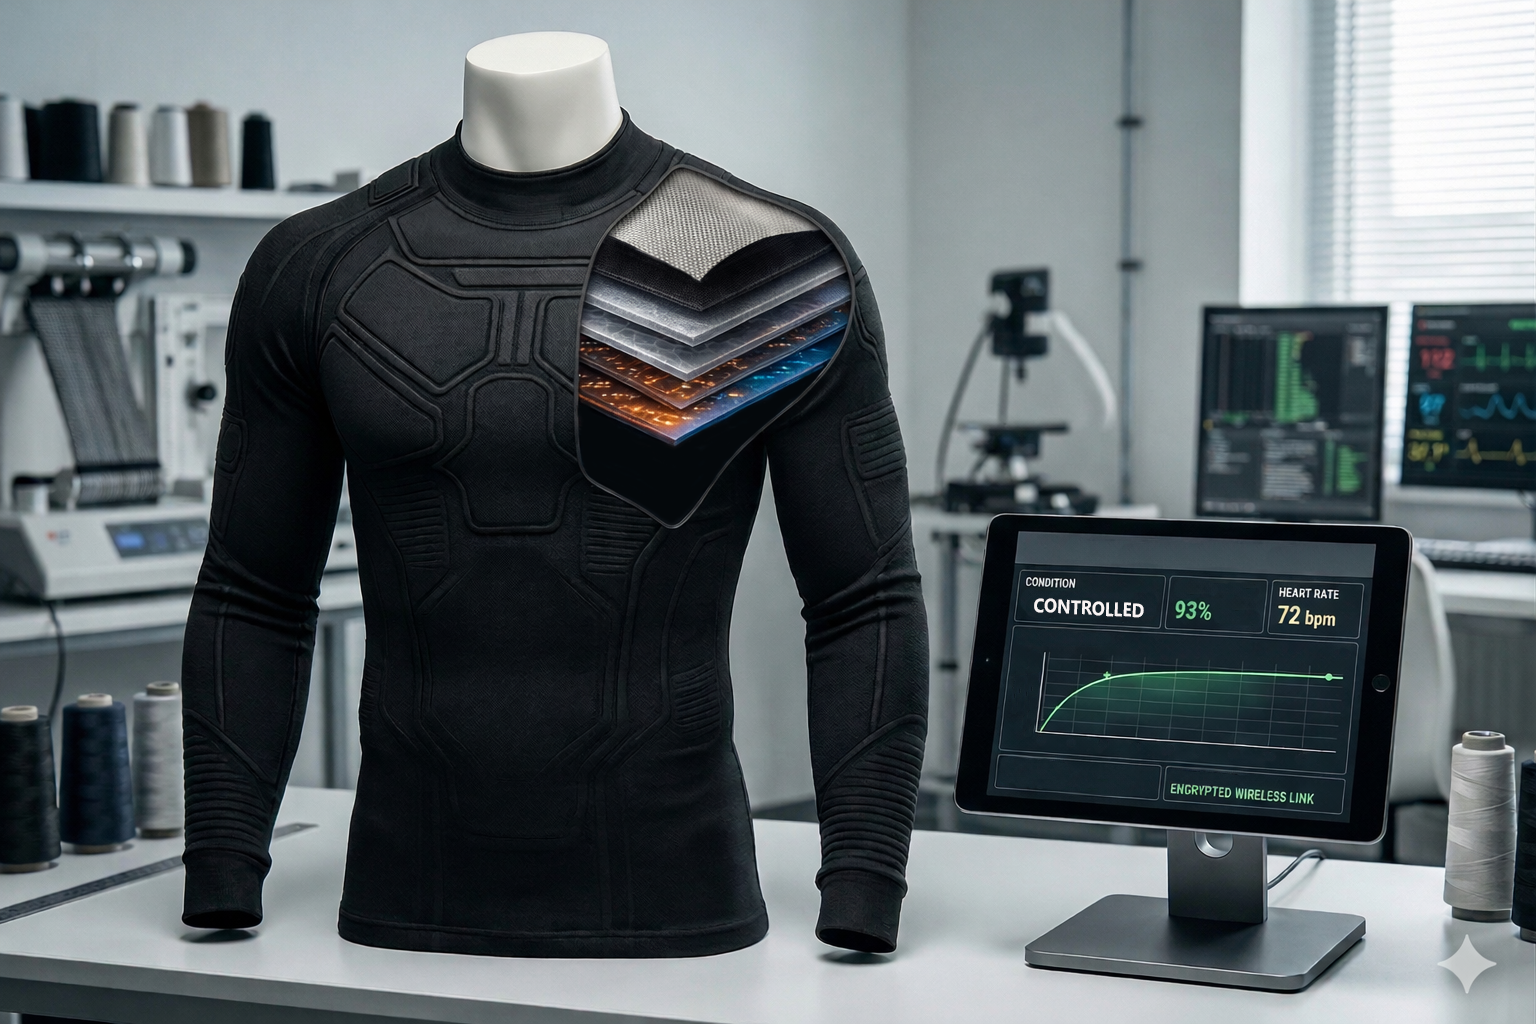
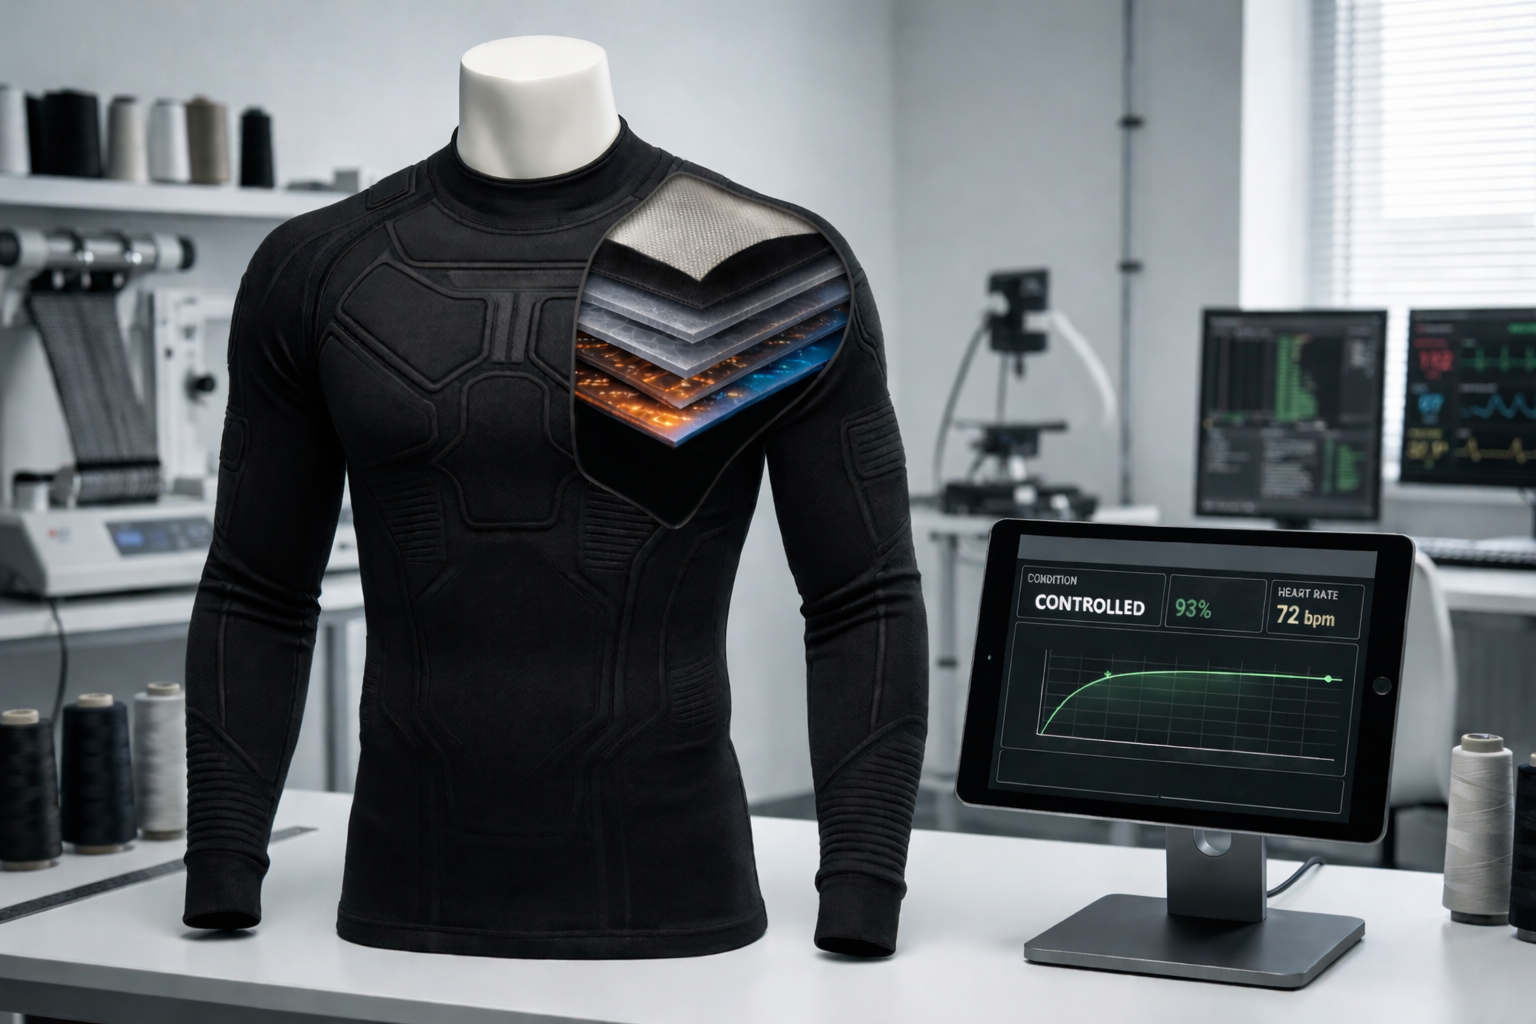
update text content and layout

diff --git a/app/components/MissionSection.jsx b/app/components/MissionSection.jsx
@@ -6,21 +6,23 @@ const sections = [
   {
     image: '/images/shirt.png',
     alt: 'The suit',
-    text: `A form of support designed to stay close to the body.`,
+    text: `It stays close to the body.
+Not as a layer.
+As a second skin.`,
   },
   {
     image: '/images/6 layers textile.png',
     alt: 'The layers',
     text: `Its complexity is not visible.
 By design.
-Silently present. Close to the body.`,
+Silently present.
+Close to the body.`,
   },
   {
     image: '/images/environment.png',
     alt: 'The environment',
-    text: `Discreet in presence. Serious in purpose.
-Not distracting. Not asking to be managed.
-Built to support physiological stability when it matters most.`,
+    text: `Built for uncontrolled conditions.
+Supporting physiological stability when it matters most.`,
   },
 ];
 
@@ -28,9 +30,12 @@ const SHOW_CTA = false;
 
 const typewriterText = [
   "Built for situations where the body is asked to carry more than usual.",
-  "",
-  "From recovery and thermal stress to demanding operational environments, the focus remains the same:",
-  "quiet support, close to the body, when stability matters most.",
+  "From recovery to thermal stress,",
+  "to demanding operational environments,",
+  "the focus remains the same:",
+  "quiet support.",
+  "Close to the body.",
+  "When stability matters most.",
 ];
 
 const fullText = typewriterText.join('\n');
@@ -75,7 +80,7 @@ function TypewriterText() {
 
 export default function MissionSection() {
   return (
-    <section className="py-20 bg-black/50 text-white px-6">
+<section className="py-20 text-white px-6" style={{background: 'rgba(0,0,0,0.5)'}}>
       <div className="space-y-24 max-w-6xl mx-auto">
         {sections.map((section, index) => (
           <div
@@ -84,16 +89,18 @@ export default function MissionSection() {
               index % 2 !== 0 ? 'md:flex-row-reverse' : ''
             } items-center gap-10`}
           >
-            <div className="w-full md:w-1/2 rounded-xl overflow-hidden shadow-lg">
+<div className={`w-full ${index === 0 ? 'md:w-2/3' : 'md:w-1/2'} rounded-xl overflow-hidden shadow-lg ${index < 2 ? 'relative z-10' : ''}`}
+              style={index < 2 ? {isolation: 'isolate'} : {}}>
               <Image
                 src={section.image}
                 alt={section.alt}
                 width={800}
                 height={600}
-                className="object-cover w-full h-full rounded-xl"
+                className={`object-cover w-full h-full rounded-xl ${index < 2 ? 'mix-blend-normal' : ''}`}
+                style={index < 2 ? {opacity: 1, mixBlendMode: 'normal'} : {}}
               />
             </div>
-            <div className="w-full md:w-1/2 text-center md:text-left space-y-4">
+<div className={`w-full md:w-1/2 space-y-4 text-center ${index === 1 ? 'md:text-right' : 'md:text-left'}`}>
               {section.text.split('\n').map((line, i) => (
                 <p key={i} className="text-gray-300 text-base md:text-lg font-light">
                   {line.trim()}